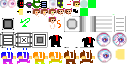
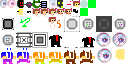
Enhanced computer tiles: RGB color tinting, animated colors, improved smoke effects, and require all tiles destroyed

Changed region(s): [[0.625, 0.25, 1.0, 0.5], [0.0, 0.5, 0.125, 0.75]]

diff --git a/appObjects.js b/appObjects.js
@@ -3031,8 +3031,10 @@ class Computer extends GameObject
         this.tileStates = []; // Track if each tile is broken (true = broken)
         this.tileHealth = []; // Track health for each tile (2 health per tile)
         this.tileParticleEmitters = []; // Store particle emitters for each destroyed tile
+        this.tileBaseColors = []; // Store base color (green, red, or blue) for each tile
+        this.tileColorOffsets = []; // Store time offset for each tile's color animation
         
-        const computerTiles = [13, 14, 15, 16]; // Available tiles from tiles2.png
+        const computerTiles = [13, 15, 16]; // Available tiles from tiles2.png (exclude 14 - reserved for damaged tiles)
         const gridSize = 4;
         
         // Create 4x4 grid of tiles
@@ -3049,35 +3051,26 @@ class Computer extends GameObject
                 this.tileStates.push(false); // Not broken yet
                 this.tileHealth.push(2); // Each tile has 2 health
                 
+                // Assign random base color (green, red, or blue) for color animation
+                const colorChoice = rand(3)|0;
+                let baseColor;
+                if (colorChoice === 0)
+                    baseColor = new Color(0, 1, 0); // Green
+                else if (colorChoice === 1)
+                    baseColor = new Color(1, 0, 0); // Red
+                else
+                    baseColor = new Color(0, 0, 1); // Blue
+                this.tileBaseColors.push(baseColor);
+                
+                // Random time offset for each tile so they change at different rates
+                this.tileColorOffsets.push(rand(100));
+                
                 // Set collision data - use tileType_computer
                 setTileCollisionData(tilePos, tileType_computer);
                 
                 // Set background tile 14 behind computer (will be revealed when destroyed)
                 setTileBackgroundData(tilePos, tileType_dirt); // Use dirt as placeholder, will be replaced with tile 14 visual
             }
-        }
-        
-        // Create blinking light particle emitters (2-3 lights randomly placed)
-        this.lightEmitters = [];
-        const lightCount = rand(2) + 2; // 2-3 lights
-        for(let i = 0; i < lightCount; i++)
-        {
-            const lightX = rand(3) + 0.5; // Random X position within 4x4 grid (0.5 to 3.5)
-            const lightY = rand(3) + 0.5; // Random Y position within 4x4 grid
-            const lightPos = pos.int().add(vec2(lightX, lightY));
-            
-            // Create blinking light particle emitter
-            const emitter = new ParticleEmitter(
-                lightPos, 0.1, 0, 30, 0, // pos, emitSize, emitTime (0 = forever), emitRate, emitCone
-                0, undefined, // tileIndex, tileSize
-                new Color(0, 1, 1, 0.8), new Color(1, 0.5, 0, 0.8), // colorStartA, colorStartB (cyan to orange)
-                new Color(0, 1, 1, 0), new Color(1, 0.5, 0, 0), // colorEndA, colorEndB (fade out)
-                0.3, 0.05, 0.05, 0, 0, // particleTime, sizeStart, sizeEnd, particleSpeed, particleAngleSpeed
-                1, 1, 0, 0, 0.5, // damping, angleDamping, gravityScale, particleCone, fadeRate
-                0.3, 0, 1, 0, 1e9 // randomness, collide, additive, randomColorLinear, renderOrder
-            );
-            this.lightEmitters.push(emitter);
-            this.addChild(emitter);
         }
         
         // Add to global array
@@ -3111,12 +3104,6 @@ class Computer extends GameObject
     
     onTileDestroyed(tileIndex)
     {
-        if (this.computerDestroyed)
-            return;
-        
-        // Mark as destroyed
-        this.computerDestroyed = true;
-        
         const tilePos = this.tilePositions[tileIndex];
         const centerPos = tilePos.add(vec2(0.5));
         
@@ -3135,13 +3122,13 @@ class Computer extends GameObject
             0.5, 0, 1, 0, 1e9 // randomness, collide, additive, randomColorLinear, renderOrder
         );
         
-        // Create smoke particles
+        // Create smoke particles (increased: emitRate 100->250, emitTime 0.5->0.8, emitSize 0.5->0.8, sizeEnd 0.8->1.0)
         new ParticleEmitter(
-            centerPos, 0.5, 0.5, 100, PI, // pos, emitSize, emitTime, emitRate, emitCone
+            centerPos, 0.8, 0.8, 250, PI, // pos, emitSize, emitTime, emitRate, emitCone
             0, undefined, // tileIndex, tileSize
-            new Color(0.2, 0.2, 0.2, 0.8), new Color(0.1, 0.1, 0.1, 0.6), // colorStartA, colorStartB (dark gray)
+            new Color(0.2, 0.2, 0.2, 0.9), new Color(0.1, 0.1, 0.1, 0.7), // colorStartA, colorStartB (dark gray, increased opacity)
             new Color(0.2, 0.2, 0.2, 0), new Color(0.1, 0.1, 0.1, 0), // colorEndA, colorEndB (fade out)
-            1.5, 0.3, 0.8, 0.1, 0.02, // particleTime, sizeStart, sizeEnd, particleSpeed, particleAngleSpeed
+            2.0, 0.3, 1.0, 0.1, 0.02, // particleTime, sizeStart, sizeEnd, particleSpeed, particleAngleSpeed
             0.9, 1, -0.2, PI, 0.2, // damping, angleDamping, gravityScale (negative = rise), particleCone, fadeRate
             0.4, 0, 0, 0, 1e8 // randomness, collide, additive, randomColorLinear, renderOrder
         );
@@ -3157,13 +3144,13 @@ class Computer extends GameObject
             0.3, 0, 1, 0, 1e9
         );
         
-        // Create ongoing smoke emitter for revealed tile (continuous)
+        // Create ongoing smoke emitter for revealed tile (continuous) (increased: emitRate 8->20, emitSize 0.2->0.4, sizeEnd 0.6->0.8)
         const smokeEmitter = new ParticleEmitter(
-            centerPos, 0.2, 0, 8, PI * 0.5, // pos, emitSize, emitTime (0 = forever), emitRate, emitCone (upward)
+            centerPos, 0.4, 0, 20, PI * 0.5, // pos, emitSize, emitTime (0 = forever), emitRate, emitCone (upward)
             0, undefined,
-            new Color(0.3, 0.3, 0.3, 0.5), new Color(0.1, 0.1, 0.1, 0.3),
+            new Color(0.3, 0.3, 0.3, 0.6), new Color(0.1, 0.1, 0.1, 0.4), // increased opacity
             new Color(0.3, 0.3, 0.3, 0), new Color(0.1, 0.1, 0.1, 0),
-            1.2, 0.2, 0.6, 0.06, 0.01,
+            1.2, 0.2, 0.8, 0.06, 0.01, // sizeEnd increased from 0.6 to 0.8
             0.9, 1, -0.15, PI * 0.5, 0.2,
             0.3, 0, 0, 0, 1e8
         );
@@ -3171,11 +3158,21 @@ class Computer extends GameObject
         // Store emitters for this tile
         this.tileParticleEmitters[tileIndex] = [sparkEmitter, smokeEmitter];
         
-        // Stop blinking lights
-        for(const emitter of this.lightEmitters)
+        // Check if all tiles are now destroyed
+        let allDestroyed = true;
+        for(let i = 0; i < this.tileStates.length; i++)
         {
-            if (emitter && !emitter.destroyed)
-                emitter.emitRate = 0;
+            if (!this.tileStates[i])
+            {
+                allDestroyed = false;
+                break;
+            }
+        }
+        
+        // Only mark computer as destroyed when ALL tiles are destroyed
+        if (allDestroyed)
+        {
+            this.computerDestroyed = true;
         }
     }
     
@@ -3200,6 +3197,28 @@ class Computer extends GameObject
             {
                 // Damaged tile - slightly darker/reddish tint
                 tileColor = new Color(0.8, 0.7, 0.7); // Slight red tint when damaged
+            }
+            else
+            {
+                // Undamaged tile - slowly changing color animation (green, red, or blue)
+                const baseColor = this.tileBaseColors[i];
+                const colorOffset = this.tileColorOffsets[i];
+                
+                // Slow color change using sine waves for smooth transitions
+                const colorSpeed = 0.5; // How fast colors change
+                const colorVariation = 0.3; // How much the color varies (0-1)
+                
+                // Create pulsing/changing color effect
+                const r = baseColor.r + colorVariation * Math.sin((time + colorOffset) * colorSpeed);
+                const g = baseColor.g + colorVariation * Math.sin((time + colorOffset + 2) * colorSpeed);
+                const b = baseColor.b + colorVariation * Math.sin((time + colorOffset + 4) * colorSpeed);
+                
+                // Clamp values and ensure minimum brightness
+                tileColor = new Color(
+                    Math.max(0.4, Math.min(1.0, r)),
+                    Math.max(0.4, Math.min(1.0, g)),
+                    Math.max(0.4, Math.min(1.0, b))
+                );
             }
             
             // Draw tile using drawTile2 (tiles2.png)
@@ -3229,13 +3248,6 @@ class Computer extends GameObject
         const index = allComputers.indexOf(this);
         if (index >= 0)
             allComputers.splice(index, 1);
-        
-        // Destroy light emitters
-        for(const emitter of this.lightEmitters)
-        {
-            if (emitter && !emitter.destroyed)
-                emitter.destroy();
-        }
         
         // Destroy tile particle emitters
         for(const emitters of this.tileParticleEmitters)

diff --git a/engine/engineDraw.js b/engine/engineDraw.js
@@ -119,8 +119,22 @@ function drawTile2(pos, size=vec2(1), tileIndex=-1, tileSize=defaultTileSize, co
                 const sY = (tileIndex/cols|0)*tileSize.y + tileBleedShrinkFix;
                 const sWidth  = tileSize.x - 2*tileBleedShrinkFix;
                 const sHeight = tileSize.y - 2*tileBleedShrinkFix;
+                
+                // Draw tile image with alpha
                 context.globalAlpha = color.a;
                 context.drawImage(tileImage2, sX, sY, sWidth, sHeight, -.5, -.5, 1, 1);
+                
+                // Apply RGB color tint only for computer tiles (13, 14, 15, 16)
+                const isComputerTile = (tileIndex >= 13 && tileIndex <= 16);
+                if (isComputerTile && (color.r < 1 || color.g < 1 || color.b < 1))
+                {
+                    context.globalAlpha = 1;
+                    context.globalCompositeOperation = 'multiply';
+                    context.fillStyle = `rgb(${Math.floor(color.r * 255)}, ${Math.floor(color.g * 255)}, ${Math.floor(color.b * 255)})`;
+                    context.fillRect(-.5, -.5, 1, 1);
+                    context.globalCompositeOperation = 'source-over';
+                }
+                context.globalAlpha = 1;
             });
         }
     }
@@ -143,8 +157,22 @@ function drawTile2(pos, size=vec2(1), tileIndex=-1, tileSize=defaultTileSize, co
                 const sY = (tileIndex/cols|0)*tileSize.y + tileBleedShrinkFix;
                 const sWidth  = tileSize.x - 2*tileBleedShrinkFix;
                 const sHeight = tileSize.y - 2*tileBleedShrinkFix;
-                context.globalAlpha = color.a; // only alpha is supported
+                
+                // Draw tile image with alpha
+                context.globalAlpha = color.a;
                 context.drawImage(tileImage2, sX, sY, sWidth, sHeight, -.5, -.5, 1, 1);
+                
+                // Apply RGB color tint only for computer tiles (13, 14, 15, 16)
+                const isComputerTile = (tileIndex >= 13 && tileIndex <= 16);
+                if (isComputerTile && (color.r < 1 || color.g < 1 || color.b < 1))
+                {
+                    context.globalAlpha = 1;
+                    context.globalCompositeOperation = 'multiply';
+                    context.fillStyle = `rgb(${Math.floor(color.r * 255)}, ${Math.floor(color.g * 255)}, ${Math.floor(color.b * 255)})`;
+                    context.fillRect(-.5, -.5, 1, 1);
+                    context.globalCompositeOperation = 'source-over';
+                }
+                context.globalAlpha = 1;
             }
         });
     }

diff --git a/appCharacters.js b/appCharacters.js
@@ -203,8 +203,8 @@ class Character extends GameObject
         // check for fall damage after physics update (groundObject is now updated)
         if (!this.climbingLadder && (this.groundObject || this.climbingWall))
         {
-            // just landed - apply fall damage if falling fast enough
-            if (wasOnGroundBeforeUpdate == 0 && this.maxFallVelocity < 0)
+            // just landed - apply fall damage if falling fast enough (unless rolling)
+            if (wasOnGroundBeforeUpdate == 0 && this.maxFallVelocity < 0 && !this.dodgeTimer.active())
             {
                 // Calculate fall damage based on impact velocity
                 // Damage threshold: -0.6 (small falls don't hurt)
